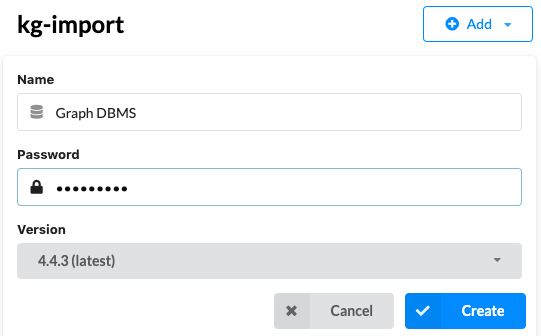
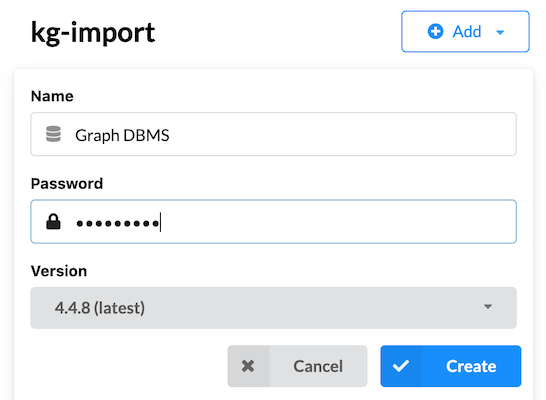
require Neo4j v >= 4.4.8

diff --git a/README.md b/README.md
@@ -165,7 +165,7 @@ git clone https://github.com/sbl-sdsc/kg-import.git
 
 ![](docs/rename_project.png)
 
-5. Click the `ADD` button and select `Local DBMS`. Then type the password `kg-import` and click `Create`.
+5. Click the `ADD` button and select `Local DBMS`. Select version >= 4.4.8. Then type the password `kg-import` and click `Create`.
     
 ![](docs/add_graph_dbms.png)
     
